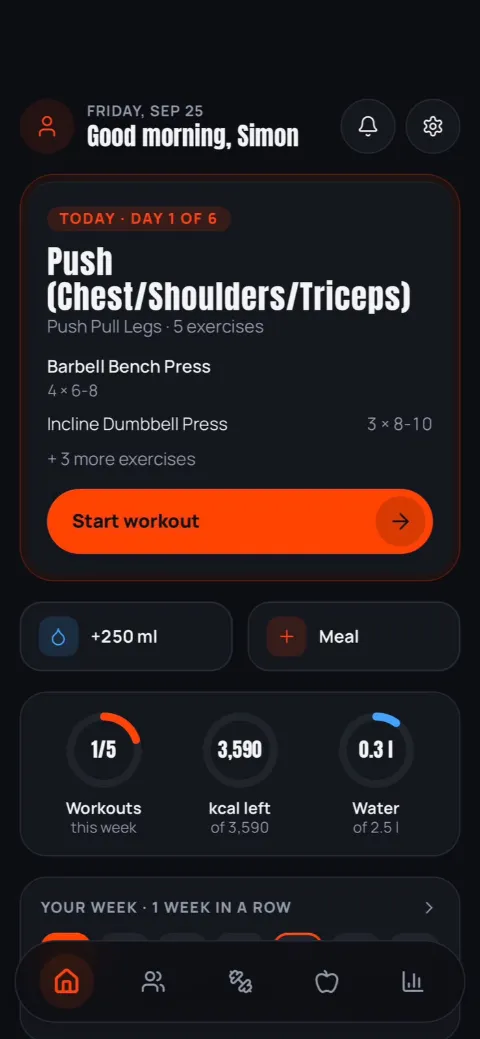
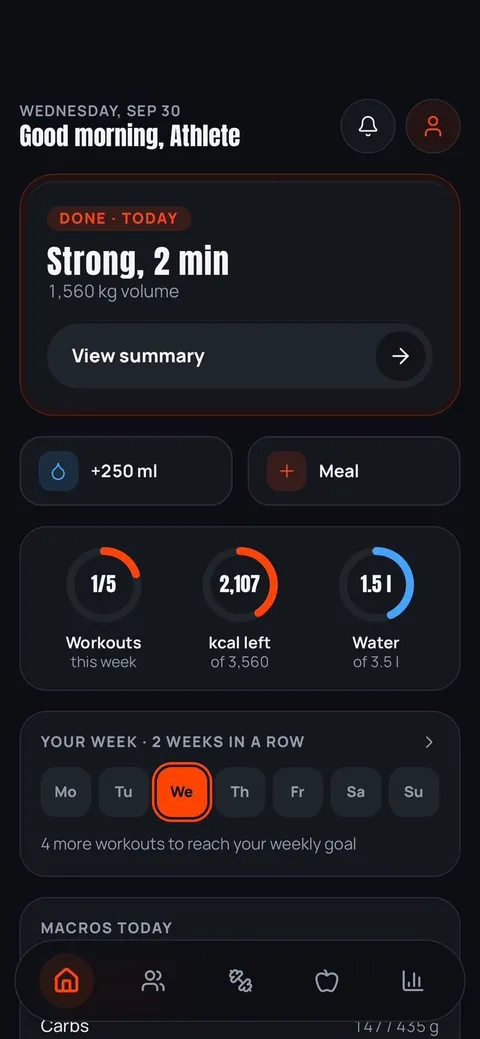
Full site live before the app launch; new Home, Nutrition and Progress screenshots
The countdown page gave way to the launch site on 2 October (owner
decision): until APP_STORE_URL is set every download action offers the
waitlist. LAUNCH_DATE stays 13 October.

diff --git a/src/content/screenshots.js b/src/content/screenshots.js
@@ -7,8 +7,8 @@
 // status bar (time, battery) painted over in the app's background, or faded
 // out where a picture sits behind it: onboarding-focus-muscles,
 // plan-preview, active-workout, exercise-library, exercise-detail and
-// food-detail from 30 Sep 2026 (the new app design); dashboard,
-// nutrition-day and progress-records from 25 Sep 2026. The *-dark.png files are older German captures and stay out of
+// food-detail, dashboard, nutrition-day and progress-sets from 30 Sep 2026
+// (the new app design). The *-dark.png files are older German captures and stay out of
 // the English site. Order here is the gallery's order.
 const shot = (name) => ({ src: `/screenshots/${name}.webp`, src480: `/screenshots/${name}-480.webp` });
 
@@ -20,7 +20,7 @@ export const SCREENSHOTS = [
     ...shot("dashboard"),
     title: "Home",
     caption: "Today's workout, quick adds for water and meals, and your rings for the week and the day.",
-    alt: "The Strivis home screen: today is day 1 of 6, Push, with Barbell Bench Press and Incline Dumbbell Press, a Start workout button, +250 ml and Meal buttons, and rings for workouts this week, kcal left and water",
+    alt: "The Strivis home screen after today's workout: Strong, 2 min with 1,560 kg volume and a View summary button, +250 ml and Meal buttons, rings for 1 of 5 workouts this week, 2,107 kcal left and 1.5 L water, and the week strip",
   },
   {
     ...shot("onboarding-focus-muscles"),
@@ -56,7 +56,7 @@ export const SCREENSHOTS = [
     ...shot("nutrition-day"),
     title: "Nutrition",
     caption: "Calories left, macros, water and supplements for the day.",
-    alt: "The Nutrition screen for today: 2875 kcal left, rings for protein, carbs and fat, the macro split, micronutrients, water at 0.3 of 2.5 L and supplements",
+    alt: "The Nutrition screen for today: 2,107 kcal left of 3,560, protein, carbs and fat against their goals, water at 1.5 of 3.5 L, a creatine check-off and breakfast at 1,453 kcal",
   },
   {
     ...shot("food-detail"),
@@ -65,10 +65,10 @@ export const SCREENSHOTS = [
     alt: "Adding Banana, raw to lunch: 100 g, 97 kcal with 0.7 g protein, 22.7 g carbs and 0.3 g fat, the day's protein, carbs and fat against their goals, and nutrition facts per 100 g",
   },
   {
-    ...shot("progress-records"),
+    ...shot("progress-sets"),
     title: "Progress",
-    caption: "Personal records and how your training splits across muscle groups.",
-    alt: "Progress view with a new record for Banded Chest Stretch, 20 kg x 10 with an estimated 1RM of 27 kg, and all sets on the chest in the muscle-group split",
+    caption: "Sets per muscle this week against your plan, and how well you judge your effort.",
+    alt: "The Progress tab: sets per muscle this week against the plan, chest at 2 of 14 sets, and a card on how well you estimate RIR",
   },
 ];
 

diff --git a/src/components/home/Features.jsx b/src/components/home/Features.jsx
@@ -63,7 +63,7 @@ export function Features() {
           >
             <ScreenCrop
               shot={screenshot("Nutrition")}
-              alt="Today in the Nutrition tab: 2875 kcal left, rings for protein, carbs and fat, and the macro split"
+              alt="Today in the Nutrition tab: 2,107 kcal left of 3,560 and protein, carbs and fat against their goals"
               position="50% 33%"
               className="mx-6 aspect-[16/9] rounded-b-none md:mx-7"
             />
@@ -75,8 +75,8 @@ export function Features() {
             </div>
             <ScreenCrop
               shot={screenshot("Progress")}
-              alt="A new record for Banded Chest Stretch, 20 kg x 10 with an estimated 1RM of 27 kg, and the split of sets across muscle groups"
-              position="50% 12%"
+              alt="Sets per muscle this week against the plan: legs, shoulders, back, chest, calves, triceps and biceps"
+              position="50% 30%"
               className="mx-6 aspect-[4/3] rounded-b-none md:col-span-7 md:mx-0 md:mr-10 md:mt-8 md:aspect-[16/10]"
             />
           </Bezel>

diff --git a/src/lib/launchDate.js b/src/lib/launchDate.js
@@ -1,7 +1,13 @@
-// Single source of truth for the pre-launch cutoff, read by both the
-// coming-soon page's countdown and App.jsx's route gate. Mirrors the same
+// The app's launch day (the coming-soon page's countdown) and the day the
+// full site opened (App.jsx's route gate, Support's FAQ link). Mirrors the same
 // file in the strivis app repo — kept as a plain duplicate rather than a
 // shared package since the two are separate deployments.
 export const LAUNCH_DATE = new Date("2026-10-13T00:00:00");
 
-export const isPreLaunch = () => Date.now() < LAUNCH_DATE.getTime();
+// The full site opened before the app's launch (owner decision 2026-10-02):
+// visitors see the product, and every download action offers the waitlist
+// until APP_STORE_URL is set (lib/appStore.js). The countdown page only
+// shows before this date. LAUNCH_DATE stays the app's launch day.
+export const SITE_OPENS = new Date("2026-10-02T00:00:00");
+
+export const isPreLaunch = () => Date.now() < SITE_OPENS.getTime();
